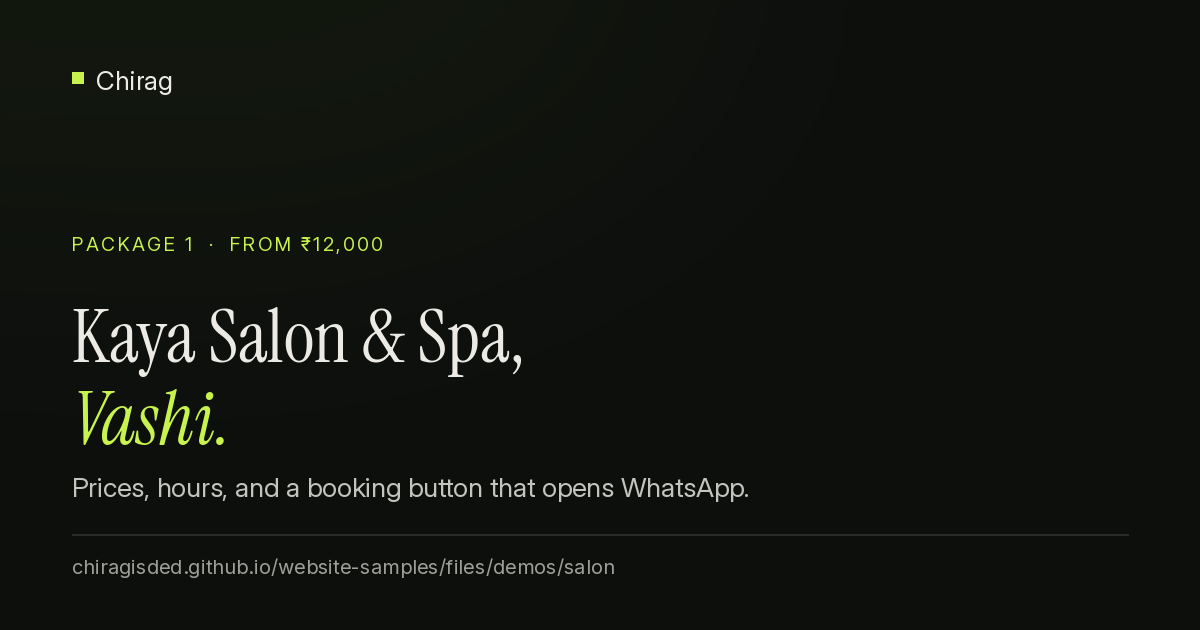
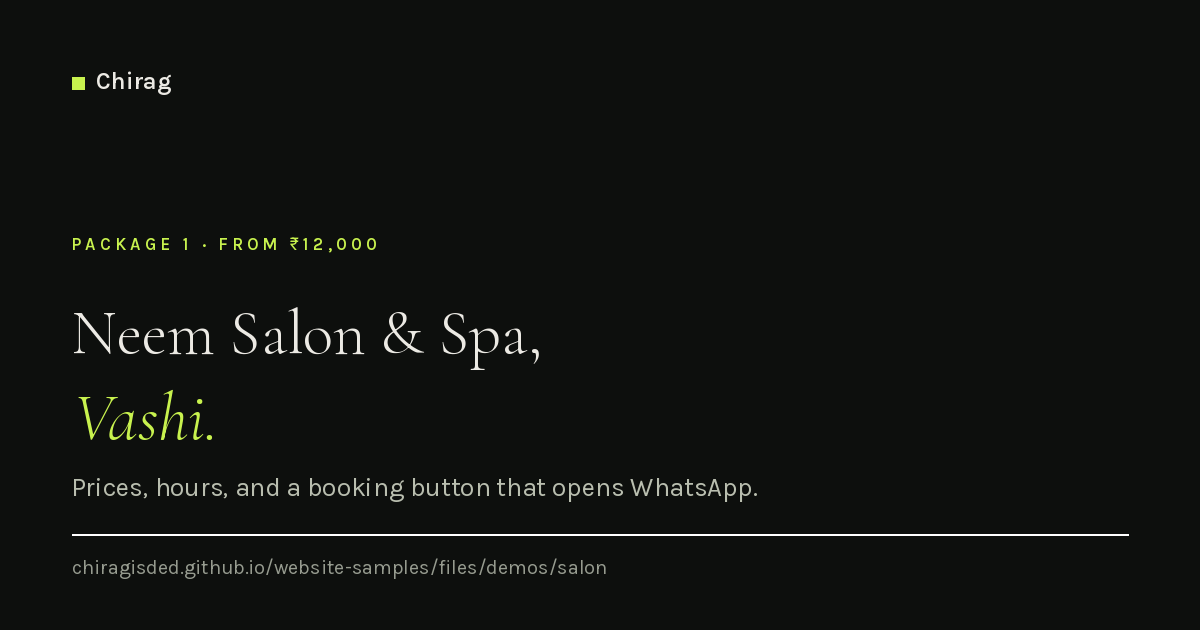
Put a real seller identity on the site, drop GST that was never charged, state the refund position, and rename the demo salon away from Kaya.
Kaya is a national salon chain with a branch in Vashi, so a demo using that exact name read as a fake branch of a real company. It is now Neem Salon & Spa, share card regenerated to match. The new "Who you're dealing with" block names Chirag Dinesh Salian trading as chiragbuilds, with the email, complaints route and address for notices that the e-commerce rules ask for; the prices say plainly that no GST is added because he is not registered; and the vague "we'll agree what's fair" cancellation line now says what actually happens to the advance and the refund.

🤖 Generated with Codebuff

diff --git a/files/demos/salon/index.html b/files/demos/salon/index.html
@@ -3,11 +3,11 @@
 <head>
 <meta charset="utf-8">
 <meta name="viewport" content="width=device-width, initial-scale=1">
-<title>Kaya Salon &amp; Spa — hair and skin in Vashi, Navi Mumbai</title>
+<title>Neem Salon &amp; Spa — hair and skin in Vashi, Navi Mumbai</title>
 <meta name="description" content="A neighbourhood salon in Sector 17, Vashi. Haircuts, colour, facials and bridal work with prices you can see before you sit down.">
 <meta property="og:type" content="website">
 <meta property="og:site_name" content="Chirag — websites for small businesses">
-<meta property="og:title" content="Kaya Salon &amp; Spa — hair and skin in Vashi, Navi Mumbai">
+<meta property="og:title" content="Neem Salon &amp; Spa — hair and skin in Vashi, Navi Mumbai">
 <meta property="og:description" content="A neighbourhood salon in Sector 17, Vashi. Haircuts, colour, facials and bridal work with prices you can see before you sit down.">
 <meta property="og:url" content="https://chiragisded.github.io/website-samples/files/demos/salon/index.html">
 <meta property="og:locale" content="en_IN">
@@ -15,12 +15,12 @@
 <meta property="og:image:type" content="image/png">
 <meta property="og:image:width" content="1200">
 <meta property="og:image:height" content="630">
-<meta property="og:image:alt" content="Kaya Salon &amp; Spa — hair and skin in Vashi, Navi Mumbai">
+<meta property="og:image:alt" content="Neem Salon &amp; Spa — hair and skin in Vashi, Navi Mumbai">
 <meta name="twitter:card" content="summary_large_image">
-<meta name="twitter:title" content="Kaya Salon &amp; Spa — hair and skin in Vashi, Navi Mumbai">
+<meta name="twitter:title" content="Neem Salon &amp; Spa — hair and skin in Vashi, Navi Mumbai">
 <meta name="twitter:description" content="A neighbourhood salon in Sector 17, Vashi. Haircuts, colour, facials and bridal work with prices you can see before you sit down.">
 <meta name="twitter:image" content="https://chiragisded.github.io/website-samples/files/demos/previews/salon.png">
-<meta name="twitter:image:alt" content="Kaya Salon &amp; Spa — hair and skin in Vashi, Navi Mumbai">
+<meta name="twitter:image:alt" content="Neem Salon &amp; Spa — hair and skin in Vashi, Navi Mumbai">
 
 <link rel="icon" type="image/svg+xml" href="../../favicon.svg">
 <link rel="preconnect" href="https://fonts.googleapis.com">
@@ -38,19 +38,19 @@
 <body>
 
 <div class="samplebar">
-  <b>Sample website.</b> Kaya Salon is not a real business — it is a demo built to show what you would get.
-  <a class="samplebar-cta" href="https://wa.me/919004910077?text=Hi%20Chirag%2C%20I%20saw%20the%20Kaya%20Salon%20sample%20and%20want%20a%20site%20like%20it%20%28package%201%2C%20from%20%E2%82%B912%2C000%29.%20My%20business%20is%3A%20">Get a site like this — from ₹12,000</a>
+  <b>Sample website.</b> Neem Salon is not a real business — it is a demo built to show what you would get.
+  <a class="samplebar-cta" href="https://wa.me/919004910077?text=Hi%20Chirag%2C%20I%20saw%20the%20Neem%20Salon%20sample%20and%20want%20a%20site%20like%20it%20%28package%201%2C%20from%20%E2%82%B912%2C000%29.%20My%20business%20is%3A%20">Get a site like this — from ₹12,000</a>
 </div>
 
 <a class="skip" href="#main">Skip to content</a>
 
 <header class="site-header">
   <div class="wrap nav">
-    <a class="brand" href="index.html">Kaya<span>Salon</span></a>
+    <a class="brand" href="index.html">Neem<span>Salon</span></a>
     <nav class="nav-links" aria-label="Main">
       <a href="services.html">Prices</a>
       <a href="visit.html">Visit</a>
-      <a href="https://wa.me/919004910077?text=Hi%20Kaya%20Salon%2C%20I%27d%20like%20to%20book%20an%20appointment">Book</a>
+      <a href="https://wa.me/919004910077?text=Hi%20Neem%20Salon%2C%20I%27d%20like%20to%20book%20an%20appointment">Book</a>
     </nav>
   </div>
 </header>
@@ -63,7 +63,7 @@
       <h1>A chair that is actually free <em>at four.</em></h1>
       <p>A small salon in Sector 17, Vashi. Four stations, two stylists who have been here since we opened, and a price list on the wall so nobody has to ask.</p>
       <div class="hero-actions">
-        <a class="btn" href="https://wa.me/919004910077?text=Hi%20Kaya%20Salon%2C%20I%27d%20like%20to%20book%20an%20appointment">Book on WhatsApp</a>
+        <a class="btn" href="https://wa.me/919004910077?text=Hi%20Neem%20Salon%2C%20I%27d%20like%20to%20book%20an%20appointment">Book on WhatsApp</a>
         <a class="btn quiet" href="services.html">See the price list</a>
       </div>
       <p class="hero-note">Tuesday to Sunday, 10am to 8:30pm &middot; Mondays closed</p>
@@ -123,7 +123,7 @@
       <div>
         <p>Send your name, the service you want and a rough time. We usually reply within the hour.</p>
         <div class="invite-actions">
-          <a class="btn" href="https://wa.me/919004910077?text=Hi%20Kaya%20Salon%2C%20I%27d%20like%20to%20book%20an%20appointment">Book on WhatsApp</a>
+          <a class="btn" href="https://wa.me/919004910077?text=Hi%20Neem%20Salon%2C%20I%27d%20like%20to%20book%20an%20appointment">Book on WhatsApp</a>
         </div>
       </div>
     </div>
@@ -133,12 +133,12 @@
 
 <footer class="site-footer">
   <div class="wrap foot">
-    <span>Kaya Salon &amp; Spa, Sector 17, Vashi, Navi Mumbai</span>
+    <span>Neem Salon &amp; Spa, Sector 17, Vashi, Navi Mumbai</span>
     <span>Sample site by <a href="../index.html">Chirag</a> · <a href="../../index.html#package-1">what's in the ₹12,000 package</a></span>
   </div>
 </footer>
 
-<a class="sample-pill" href="https://wa.me/919004910077?text=Hi%20Chirag%2C%20I%20saw%20the%20Kaya%20Salon%20sample%20and%20want%20one%20for%20my%20business">
+<a class="sample-pill" href="https://wa.me/919004910077?text=Hi%20Chirag%2C%20I%20saw%20the%20Neem%20Salon%20sample%20and%20want%20one%20for%20my%20business">
   <b>Sample site by Chirag</b>
   <span>Want one like this? Message me</span>
 </a>

diff --git a/files/index.html b/files/index.html
@@ -215,6 +215,7 @@
   .costs b{font-weight:500;display:block}
   .costs small{display:block;color:var(--muted);font-size:13.5px;margin-top:4px;line-height:1.5}
   .costs em{font-style:normal;color:var(--accent);white-space:nowrap;font-size:15px}
+  .costs a{color:var(--text);text-decoration:none;border-bottom:1px solid rgba(255,255,255,.25)}
   .cost-note{color:var(--muted);font-size:14px;margin:18px 0 0;max-width:72ch}
 
   /* faq */
@@ -280,6 +281,9 @@
   "@type": "ProfessionalService",
   "@id": "https://chiragisded.github.io/website-samples/files/#business",
   "name": "Chirag — websites for small businesses",
+  "alternateName": "chiragbuilds",
+  "legalName": "Chirag Dinesh Salian",
+  "email": "chiragsalian1601@gmail.com",
   "description": "Websites for small businesses in Mumbai and Navi Mumbai. Fixed-price builds, with enquiry forms, bookings, databases and online payments.",
   "url": "https://chiragisded.github.io/website-samples/files/",
   "telephone": "+919004910077",
@@ -488,6 +492,10 @@
             <b>Extras are quoted first.</b>
             <span>New pages, extra languages, a booking calendar, a staff login: anything outside the agreed scope gets a price before it gets built.</span>
           </li>
+          <li>
+            <b>No GST on top.</b>
+            <span>I'm not GST-registered, so no tax is added to the quote. The price you agree is the whole amount.</span>
+          </li>
         </ul>
       </div>
 
@@ -575,7 +583,7 @@
       <div class="proofs">
         <div class="proof">
           <p class="tag">Package 1 · from ₹12,000</p>
-          <h3>Kaya Salon &amp; Spa</h3>
+          <h3>Neem Salon &amp; Spa</h3>
           <p>Four pages, a full price list, opening hours, a map and a booking button that opens WhatsApp.</p>
           <a href="demos/salon/index.html">Open the salon site →</a>
         </div>
@@ -681,7 +689,7 @@
         <li><div><b>Two rounds of changes</b><small>A round is one list of changes, sent together. Two are included before launch.</small></div></li>
         <li><div><b>If your words and photos are late</b><small>The launch date moves with them. I'll tell you the new date instead of leaving you guessing.</small></div></li>
         <li><div><b>The first thirty days</b><small>Fixes are free: anything broken, or not as we agreed. New pages or new features are quoted.</small></div></li>
-        <li><div><b>If you want to stop</b><small>Tell me as soon as you can and we'll agree what's fair for the work done so far. After launch, the site and everything in it is yours.</small></div></li>
+        <li><div><b>If you want to stop</b><small>Before I start, the advance comes back in full. Once I've started, you pay for the work done up to that day and the rest of the advance comes back — I'll show you what already exists. Refunds go back the way they came, within seven days of us agreeing the amount. After launch the site is yours, and the balance isn't refundable.</small></div></li>
       </ul>
     </div>
   </section>
@@ -754,13 +762,31 @@
     </div>
   </section>
 
+  <section id="seller">
+    <div class="wrap">
+      <div class="sec-head">
+        <p class="kicker">Who you're dealing with</p>
+        <h2>One person, with his name on the quote.</h2>
+        <p>No agency, no sales team, no company behind this page. If something goes wrong there is exactly one person to reach, and this is how.</p>
+      </div>
+      <ul class="costs">
+        <li><div><b>Chirag Dinesh Salian</b><small>Freelance web designer, working as chiragbuilds. A sole freelancer, not a registered company.</small></div></li>
+        <li><div><b>Email</b><small><a href="mailto:chiragsalian1601@gmail.com">chiragsalian1601@gmail.com</a> — for quotes, invoices, refunds or a complaint.</small></div></li>
+        <li><div><b>Complaints</b><small>Send them to that same address with “Complaint” in the subject. I answer within a day, and it is me answering, not a support desk.</small></div></li>
+        <li><div><b>Phone and WhatsApp</b><small><a href="tel:+919004910077">+91 90049 10077</a>, weekdays 10am to 8pm.</small></div></li>
+        <li><div><b>Address for notices</b><small>chiragbuilds, Navi Mumbai, Maharashtra. Write to the email above and I'll reply with the full postal address.</small></div></li>
+        <li><div><b>GST</b><small>Not registered. The prices on this page are the whole amount, with no tax added.</small></div></li>
+      </ul>
+    </div>
+  </section>
+
   <div class="wrap" style="padding-bottom:80px">
     <div class="contact">
       <h2>Tell me about your business.</h2>
       <p>One message is enough: what you do, where you are, and what you wish your website could do. I'll reply with a price and a timeline — usually within a day.</p>
       <a class="btn btn-accent" href="https://wa.me/919004910077?text=Hi%20Chirag%2C%20I%27d%20like%20a%20quote%20for%20a%20website.%20Sending%3A%20name%2C%20address%2C%20phone%2FWhatsApp%3B%20what%20I%20sell%20%2B%20prices%20%2B%20area%3B%20hours%20%2B%205%E2%80%9310%20photos%3B%20logo%2Fwording%20if%20I%20have%20them%3B%20the%20domain%20I%20want.%20My%20business%20is%3A%20">WhatsApp me</a>
       <a class="btn btn-ghost" href="tel:+919004910077">Call +91 90049 10077</a>
-      <p class="alt">Navi Mumbai · +91 90049 10077 · WhatsApp is fastest</p>
+      <p class="alt">Navi Mumbai · +91 90049 10077 · <a href="mailto:chiragsalian1601@gmail.com">chiragsalian1601@gmail.com</a> · WhatsApp is fastest</p>
     </div>
   </div>
 
@@ -768,7 +794,7 @@
 
 <footer>
   <div class="wrap foot">
-    <span>© 2026 Chirag — websites for small businesses</span>
+    <span>© 2026 Chirag Dinesh Salian · chiragbuilds</span>
     <span>Mumbai &amp; Navi Mumbai · working with clients anywhere</span>
   </div>
 </footer>

diff --git a/files/demos/salon/visit.html b/files/demos/salon/visit.html
@@ -3,24 +3,24 @@
 <head>
 <meta charset="utf-8">
 <meta name="viewport" content="width=device-width, initial-scale=1">
-<title>Visit us — Kaya Salon &amp; Spa, Sector 17 Vashi</title>
-<meta name="description" content="Address, opening hours and photos of Kaya Salon in Sector 17, Vashi, two minutes from Vashi station.">
+<title>Visit us — Neem Salon &amp; Spa, Sector 17 Vashi</title>
+<meta name="description" content="Address, opening hours and photos of Neem Salon in Sector 17, Vashi, two minutes from Vashi station.">
 <meta property="og:type" content="website">
 <meta property="og:site_name" content="Chirag — websites for small businesses">
-<meta property="og:title" content="Visit us — Kaya Salon &amp; Spa, Sector 17 Vashi">
-<meta property="og:description" content="Address, opening hours and photos of Kaya Salon in Sector 17, Vashi, two minutes from Vashi station.">
+<meta property="og:title" content="Visit us — Neem Salon &amp; Spa, Sector 17 Vashi">
+<meta property="og:description" content="Address, opening hours and photos of Neem Salon in Sector 17, Vashi, two minutes from Vashi station.">
 <meta property="og:url" content="https://chiragisded.github.io/website-samples/files/demos/salon/visit.html">
 <meta property="og:locale" content="en_IN">
 <meta property="og:image" content="https://chiragisded.github.io/website-samples/files/demos/previews/salon.png">
 <meta property="og:image:type" content="image/png">
 <meta property="og:image:width" content="1200">
 <meta property="og:image:height" content="630">
-<meta property="og:image:alt" content="Visit us — Kaya Salon &amp; Spa, Sector 17 Vashi">
+<meta property="og:image:alt" content="Visit us — Neem Salon &amp; Spa, Sector 17 Vashi">
 <meta name="twitter:card" content="summary_large_image">
-<meta name="twitter:title" content="Visit us — Kaya Salon &amp; Spa, Sector 17 Vashi">
-<meta name="twitter:description" content="Address, opening hours and photos of Kaya Salon in Sector 17, Vashi, two minutes from Vashi station.">
+<meta name="twitter:title" content="Visit us — Neem Salon &amp; Spa, Sector 17 Vashi">
+<meta name="twitter:description" content="Address, opening hours and photos of Neem Salon in Sector 17, Vashi, two minutes from Vashi station.">
 <meta name="twitter:image" content="https://chiragisded.github.io/website-samples/files/demos/previews/salon.png">
-<meta name="twitter:image:alt" content="Visit us — Kaya Salon &amp; Spa, Sector 17 Vashi">
+<meta name="twitter:image:alt" content="Visit us — Neem Salon &amp; Spa, Sector 17 Vashi">
 
 <link rel="icon" type="image/svg+xml" href="../../favicon.svg">
 <link rel="preconnect" href="https://fonts.googleapis.com">
@@ -38,19 +38,19 @@
 <body>
 
 <div class="samplebar">
-  <b>Sample website.</b> Kaya Salon is not a real business — it is a demo built to show what you would get.
-  <a class="samplebar-cta" href="https://wa.me/919004910077?text=Hi%20Chirag%2C%20I%20saw%20the%20Kaya%20Salon%20sample%20and%20want%20a%20site%20like%20it%20%28package%201%2C%20from%20%E2%82%B912%2C000%29.%20My%20business%20is%3A%20">Get a site like this — from ₹12,000</a>
+  <b>Sample website.</b> Neem Salon is not a real business — it is a demo built to show what you would get.
+  <a class="samplebar-cta" href="https://wa.me/919004910077?text=Hi%20Chirag%2C%20I%20saw%20the%20Neem%20Salon%20sample%20and%20want%20a%20site%20like%20it%20%28package%201%2C%20from%20%E2%82%B912%2C000%29.%20My%20business%20is%3A%20">Get a site like this — from ₹12,000</a>
 </div>
 
 <a class="skip" href="#main">Skip to content</a>
 
 <header class="site-header">
   <div class="wrap nav">
-    <a class="brand" href="index.html">Kaya<span>Salon</span></a>
+    <a class="brand" href="index.html">Neem<span>Salon</span></a>
     <nav class="nav-links" aria-label="Main">
       <a href="services.html">Prices</a>
       <a href="visit.html" aria-current="page">Visit</a>
-      <a href="https://wa.me/919004910077?text=Hi%20Kaya%20Salon%2C%20I%27d%20like%20to%20book%20an%20appointment">Book</a>
+      <a href="https://wa.me/919004910077?text=Hi%20Neem%20Salon%2C%20I%27d%20like%20to%20book%20an%20appointment">Book</a>
     </nav>
   </div>
 </header>
@@ -120,7 +120,7 @@
       <div>
         <p>Weekdays you can simply walk in. Bring a picture if you have one, or let the stylist decide.</p>
         <div class="invite-actions">
-          <a class="btn" href="https://wa.me/919004910077?text=Hi%20Kaya%20Salon%2C%20I%27d%20like%20to%20book%20an%20appointment">Book on WhatsApp</a>
+          <a class="btn" href="https://wa.me/919004910077?text=Hi%20Neem%20Salon%2C%20I%27d%20like%20to%20book%20an%20appointment">Book on WhatsApp</a>
           <a class="btn quiet" href="tel:+919004910077">Call instead</a>
         </div>
       </div>
@@ -131,12 +131,12 @@
 
 <footer class="site-footer">
   <div class="wrap foot">
-    <span>Kaya Salon &amp; Spa, Sector 17, Vashi, Navi Mumbai</span>
+    <span>Neem Salon &amp; Spa, Sector 17, Vashi, Navi Mumbai</span>
     <span>Sample site by <a href="../index.html">Chirag</a> · <a href="../../index.html#package-1">what's in the ₹12,000 package</a></span>
   </div>
 </footer>
 
-<a class="sample-pill" href="https://wa.me/919004910077?text=Hi%20Chirag%2C%20I%20saw%20the%20Kaya%20Salon%20sample%20and%20want%20one%20for%20my%20business">
+<a class="sample-pill" href="https://wa.me/919004910077?text=Hi%20Chirag%2C%20I%20saw%20the%20Neem%20Salon%20sample%20and%20want%20one%20for%20my%20business">
   <b>Sample site by Chirag</b>
   <span>Want one like this? Message me</span>
 </a>

diff --git a/files/demos/salon/services.html b/files/demos/salon/services.html
@@ -3,24 +3,24 @@
 <head>
 <meta charset="utf-8">
 <meta name="viewport" content="width=device-width, initial-scale=1">
-<title>Prices — Kaya Salon &amp; Spa, Vashi</title>
-<meta name="description" content="Full price list for haircuts, colour, facials, waxing and bridal packages at Kaya Salon, Sector 17 Vashi.">
+<title>Prices — Neem Salon &amp; Spa, Vashi</title>
+<meta name="description" content="Full price list for haircuts, colour, facials, waxing and bridal packages at Neem Salon, Sector 17 Vashi.">
 <meta property="og:type" content="website">
 <meta property="og:site_name" content="Chirag — websites for small businesses">
-<meta property="og:title" content="Prices — Kaya Salon &amp; Spa, Vashi">
-<meta property="og:description" content="Full price list for haircuts, colour, facials, waxing and bridal packages at Kaya Salon, Sector 17 Vashi.">
+<meta property="og:title" content="Prices — Neem Salon &amp; Spa, Vashi">
+<meta property="og:description" content="Full price list for haircuts, colour, facials, waxing and bridal packages at Neem Salon, Sector 17 Vashi.">
 <meta property="og:url" content="https://chiragisded.github.io/website-samples/files/demos/salon/services.html">
 <meta property="og:locale" content="en_IN">
 <meta property="og:image" content="https://chiragisded.github.io/website-samples/files/demos/previews/salon.png">
 <meta property="og:image:type" content="image/png">
 <meta property="og:image:width" content="1200">
 <meta property="og:image:height" content="630">
-<meta property="og:image:alt" content="Prices — Kaya Salon &amp; Spa, Vashi">
+<meta property="og:image:alt" content="Prices — Neem Salon &amp; Spa, Vashi">
 <meta name="twitter:card" content="summary_large_image">
-<meta name="twitter:title" content="Prices — Kaya Salon &amp; Spa, Vashi">
-<meta name="twitter:description" content="Full price list for haircuts, colour, facials, waxing and bridal packages at Kaya Salon, Sector 17 Vashi.">
+<meta name="twitter:title" content="Prices — Neem Salon &amp; Spa, Vashi">
+<meta name="twitter:description" content="Full price list for haircuts, colour, facials, waxing and bridal packages at Neem Salon, Sector 17 Vashi.">
 <meta name="twitter:image" content="https://chiragisded.github.io/website-samples/files/demos/previews/salon.png">
-<meta name="twitter:image:alt" content="Prices — Kaya Salon &amp; Spa, Vashi">
+<meta name="twitter:image:alt" content="Prices — Neem Salon &amp; Spa, Vashi">
 
 <link rel="icon" type="image/svg+xml" href="../../favicon.svg">
 <link rel="preconnect" href="https://fonts.googleapis.com">
@@ -38,19 +38,19 @@
 <body>
 
 <div class="samplebar">
-  <b>Sample website.</b> Kaya Salon is not a real business — it is a demo built to show what you would get.
-  <a class="samplebar-cta" href="https://wa.me/919004910077?text=Hi%20Chirag%2C%20I%20saw%20the%20Kaya%20Salon%20sample%20and%20want%20a%20site%20like%20it%20%28package%201%2C%20from%20%E2%82%B912%2C000%29.%20My%20business%20is%3A%20">Get a site like this — from ₹12,000</a>
+  <b>Sample website.</b> Neem Salon is not a real business — it is a demo built to show what you would get.
+  <a class="samplebar-cta" href="https://wa.me/919004910077?text=Hi%20Chirag%2C%20I%20saw%20the%20Neem%20Salon%20sample%20and%20want%20a%20site%20like%20it%20%28package%201%2C%20from%20%E2%82%B912%2C000%29.%20My%20business%20is%3A%20">Get a site like this — from ₹12,000</a>
 </div>
 
 <a class="skip" href="#main">Skip to content</a>
 
 <header class="site-header">
   <div class="wrap nav">
-    <a class="brand" href="index.html">Kaya<span>Salon</span></a>
+    <a class="brand" href="index.html">Neem<span>Salon</span></a>
     <nav class="nav-links" aria-label="Main">
       <a href="services.html" aria-current="page">Prices</a>
       <a href="visit.html">Visit</a>
-      <a href="https://wa.me/919004910077?text=Hi%20Kaya%20Salon%2C%20I%27d%20like%20to%20book%20an%20appointment">Book</a>
+      <a href="https://wa.me/919004910077?text=Hi%20Neem%20Salon%2C%20I%27d%20like%20to%20book%20an%20appointment">Book</a>
     </nav>
   </div>
 </header>
@@ -120,7 +120,7 @@
       <div>
         <p>Send the service and a rough time. If it is a Saturday, message two days ahead.</p>
         <div class="invite-actions">
-          <a class="btn" href="https://wa.me/919004910077?text=Hi%20Kaya%20Salon%2C%20I%27d%20like%20to%20book%20an%20appointment">Book on WhatsApp</a>
+          <a class="btn" href="https://wa.me/919004910077?text=Hi%20Neem%20Salon%2C%20I%27d%20like%20to%20book%20an%20appointment">Book on WhatsApp</a>
           <a class="btn quiet" href="visit.html">Where we are</a>
         </div>
       </div>
@@ -131,12 +131,12 @@
 
 <footer class="site-footer">
   <div class="wrap foot">
-    <span>Kaya Salon &amp; Spa, Sector 17, Vashi, Navi Mumbai</span>
+    <span>Neem Salon &amp; Spa, Sector 17, Vashi, Navi Mumbai</span>
     <span>Sample site by <a href="../index.html">Chirag</a> · <a href="../../index.html#package-1">what's in the ₹12,000 package</a></span>
   </div>
 </footer>
 
-<a class="sample-pill" href="https://wa.me/919004910077?text=Hi%20Chirag%2C%20I%20saw%20the%20Kaya%20Salon%20sample%20and%20want%20one%20for%20my%20business">
+<a class="sample-pill" href="https://wa.me/919004910077?text=Hi%20Chirag%2C%20I%20saw%20the%20Neem%20Salon%20sample%20and%20want%20one%20for%20my%20business">
   <b>Sample site by Chirag</b>
   <span>Want one like this? Message me</span>
 </a>

diff --git a/files/quote-template.html b/files/quote-template.html
@@ -42,7 +42,7 @@
 <body>
 <div class="sheet">
   <div class="top">
-    <div class="brand">Chirag<small>Websites for small businesses, Mumbai and Navi Mumbai<br>+91 90049 10077, WhatsApp is fastest</small></div>
+    <div class="brand">Chirag Dinesh Salian<small>Freelance web designer, trading as chiragbuilds<br>Websites for small businesses, Mumbai and Navi Mumbai<br>+91 90049 10077, WhatsApp is fastest · chiragsalian1601@gmail.com</small></div>
     <div class="doc"><b>Quote</b>Date <span class="fill" contenteditable="true"></span><br>Valid until <span class="fill" contenteditable="true"></span></div>
   </div>
 
@@ -81,7 +81,7 @@
     <tr><td>Live</td><td><span class="fill" contenteditable="true"></span></td></tr>
   </table>
 
-  <p class="fine">One fixed price: it doesn't change unless you ask for something extra, and that gets priced separately first. If your words and photos arrive late, the launch date moves with them. Thirty days of fixes are included after launch. After that the site, the domain and the accounts are all in your name.</p>
+  <p class="fine">One fixed price: it doesn't change unless you ask for something extra, and that gets priced separately first. No GST is charged — I'm not GST-registered, so the totals above are the whole amount. If your words and photos arrive late, the launch date moves with them. Thirty days of fixes are included after launch. After that the site, the domain and the accounts are all in your name.</p>
 
   <div class="sign"><div>Your signature and date</div><div>Chirag</div></div>
 </div>

diff --git a/files/demos/index.html b/files/demos/index.html
@@ -134,12 +134,12 @@
           <div class="sample-head">
             <div>
               <p class="type">Package 1 · from ₹12,000</p>
-              <h3><a href="salon/index.html">Kaya Salon &amp; Spa, Vashi</a></h3>
+              <h3><a href="salon/index.html">Neem Salon &amp; Spa, Vashi</a></h3>
               <p class="summary">Three pages for a salon: prices, opening hours, and a booking button that opens WhatsApp with the message written.</p>
             </div>
             <div class="sample-cta">
               <a class="go" href="salon/index.html">Open sample</a>
-              <a class="go go--ask" href="https://wa.me/919004910077?text=Hi%20Chirag%2C%20I%20want%20a%20site%20like%20the%20Kaya%20Salon%20sample%20(package%201)%20for%20my%20business.%20My%20business%20is%3A%20">Use this one</a>
+              <a class="go go--ask" href="https://wa.me/919004910077?text=Hi%20Chirag%2C%20I%20want%20a%20site%20like%20the%20Neem%20Salon%20sample%20(package%201)%20for%20my%20business.%20My%20business%20is%3A%20">Use this one</a>
             </div>
           </div>
           <div class="proof">

diff --git a/files/demos/salon/style.css b/files/demos/salon/style.css
@@ -1,4 +1,4 @@
-/* Kaya Salon & Spa — shared styles
+/* Neem Salon & Spa — shared styles
    After dark: espresso ground, brass hairlines, one high-contrast serif. */
 :root{
   --night:#121110;
